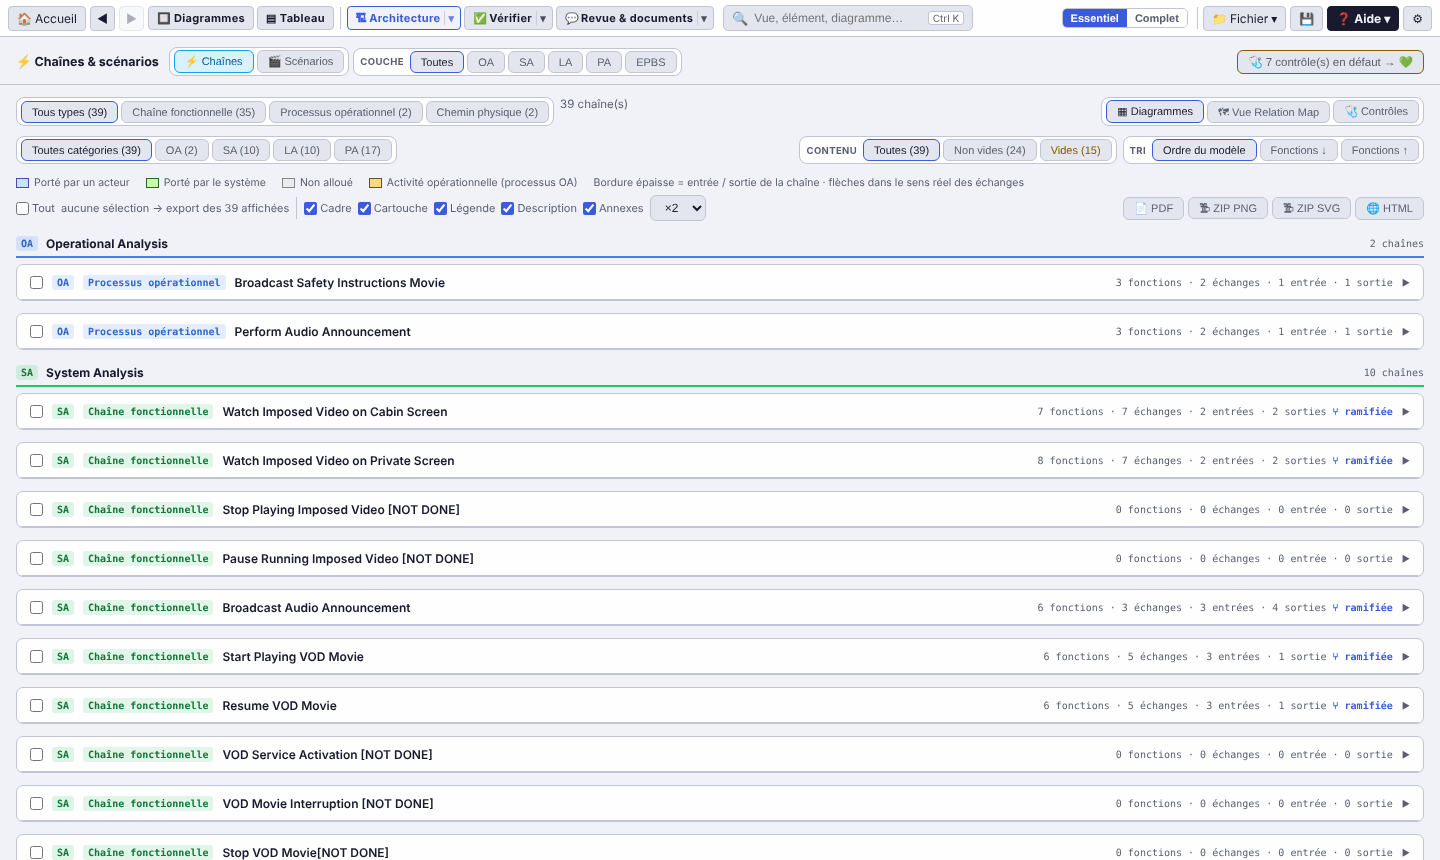
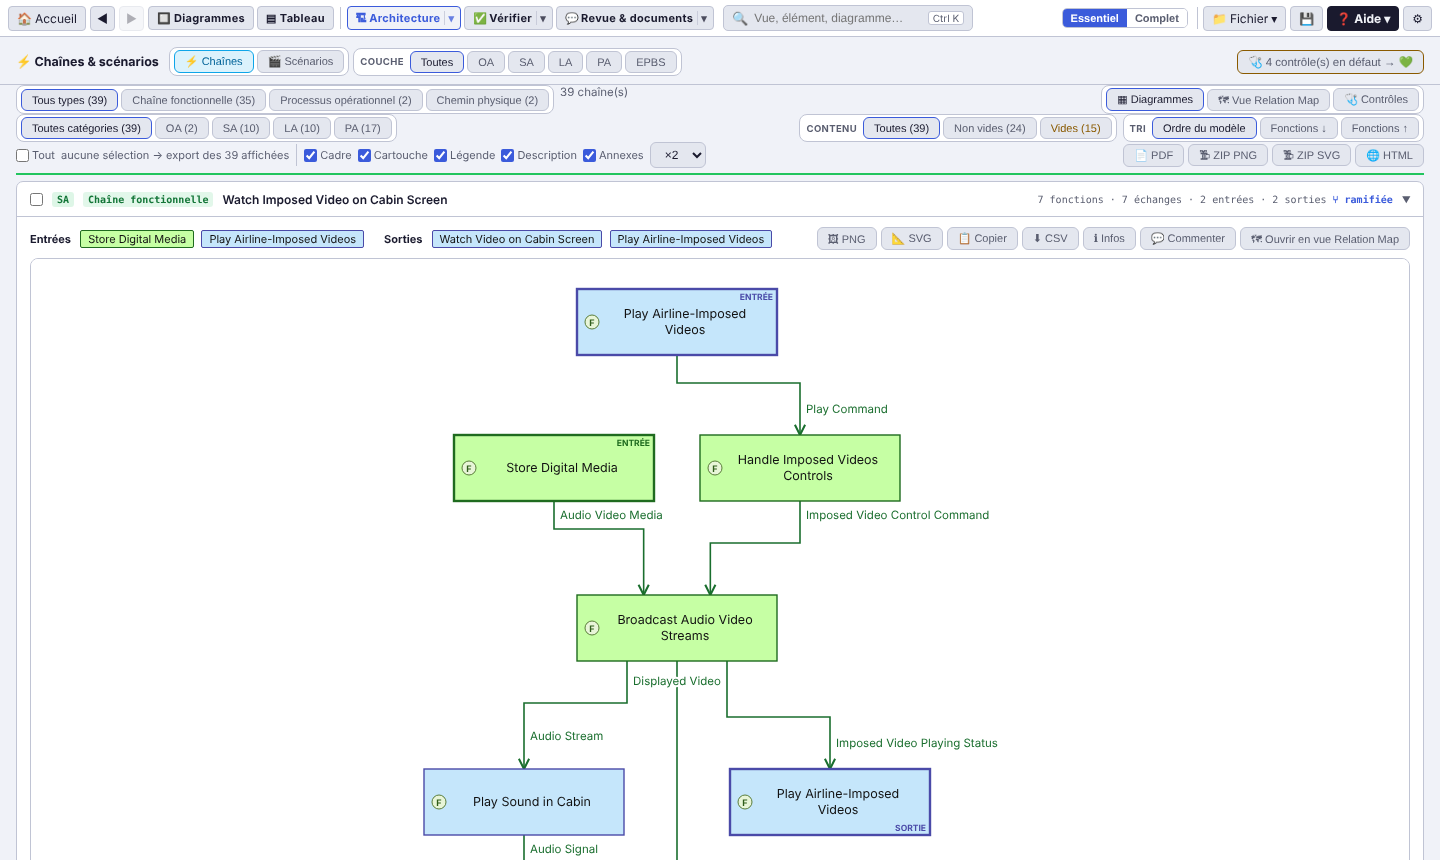
README : capture des chaînes fonctionnelles avec une chaîne dépliée (#15)
Claude-Session: https://claude.ai/code/session_01GsVLSFLTVY4JAfMqx8L44F

diff --git a/README.md b/README.md
@@ -94,7 +94,7 @@ A **💬 Review** button opens a review panel: comments on the model, on its ele
 ### ⚡ Read functional chains
 Each functional chain, operational process or physical path is redrawn, with its inputs / outputs, the involved functions, their allocation and the exchanges. Filters by type, layer and content; **ℹ Info** of the displayed chain (owners, capabilities involving it, description) in the details panel; PDF, PNG, SVG, ZIP or HTML export of all chains at once.
 
-![Functional chains](docs/captures/02-chaines.png)
+![Functional chains — a chain unfolded: inputs, involved functions, exchanges, outputs](docs/captures/02-chaines.png)
 
 ### ƒ⇆ See the exchanges as in Capella
 The **Blocks views** follow the Capella rendering: green (system) or blue (actor) functions, input and output pins, exchanges and remote function. A click on the remote function takes you there. Same principle for **Operational Analysis**, **System / Logical Components**, **Behavior Exchange** and **Physical Links**, each with a row view, an N² matrix and checks.
@@ -269,7 +269,7 @@ Un bouton **💬 Revue** ouvre un panneau de revue : des commentaires sur le mod
 ### ⚡ Lire les chaînes fonctionnelles
 Chaque chaîne fonctionnelle, processus opérationnel ou chemin physique est redessiné, avec ses entrées / sorties, les fonctions impliquées, leur allocation et les échanges. Filtres par type, couche et contenu ; **ℹ Infos** de la chaîne affichée (porteurs, capacités qui l'impliquent, description) dans le panneau de détail ; export PDF, PNG, SVG, ZIP ou HTML de toutes les chaînes d'un coup.
 
-![Chaînes fonctionnelles](docs/captures/02-chaines.png)
+![Chaînes fonctionnelles — une chaîne dépliée : entrées, fonctions impliquées, échanges, sorties](docs/captures/02-chaines.png)
 
 ### ƒ⇆ Voir les échanges comme dans Capella
 Les **Vues Blocs** reprennent le rendu de Capella : fonctions vertes (système) ou bleues (acteurs), pins d'entrée et de sortie, échanges et fonction distante. Un clic sur la fonction distante vous y emmène. Même principe pour l'**Operational Analysis**, les **System / Logical Components**, le **Behavior Exchange** et les **Physical Links**, avec à chaque fois vue en lignes, matrice N² et contrôles.
